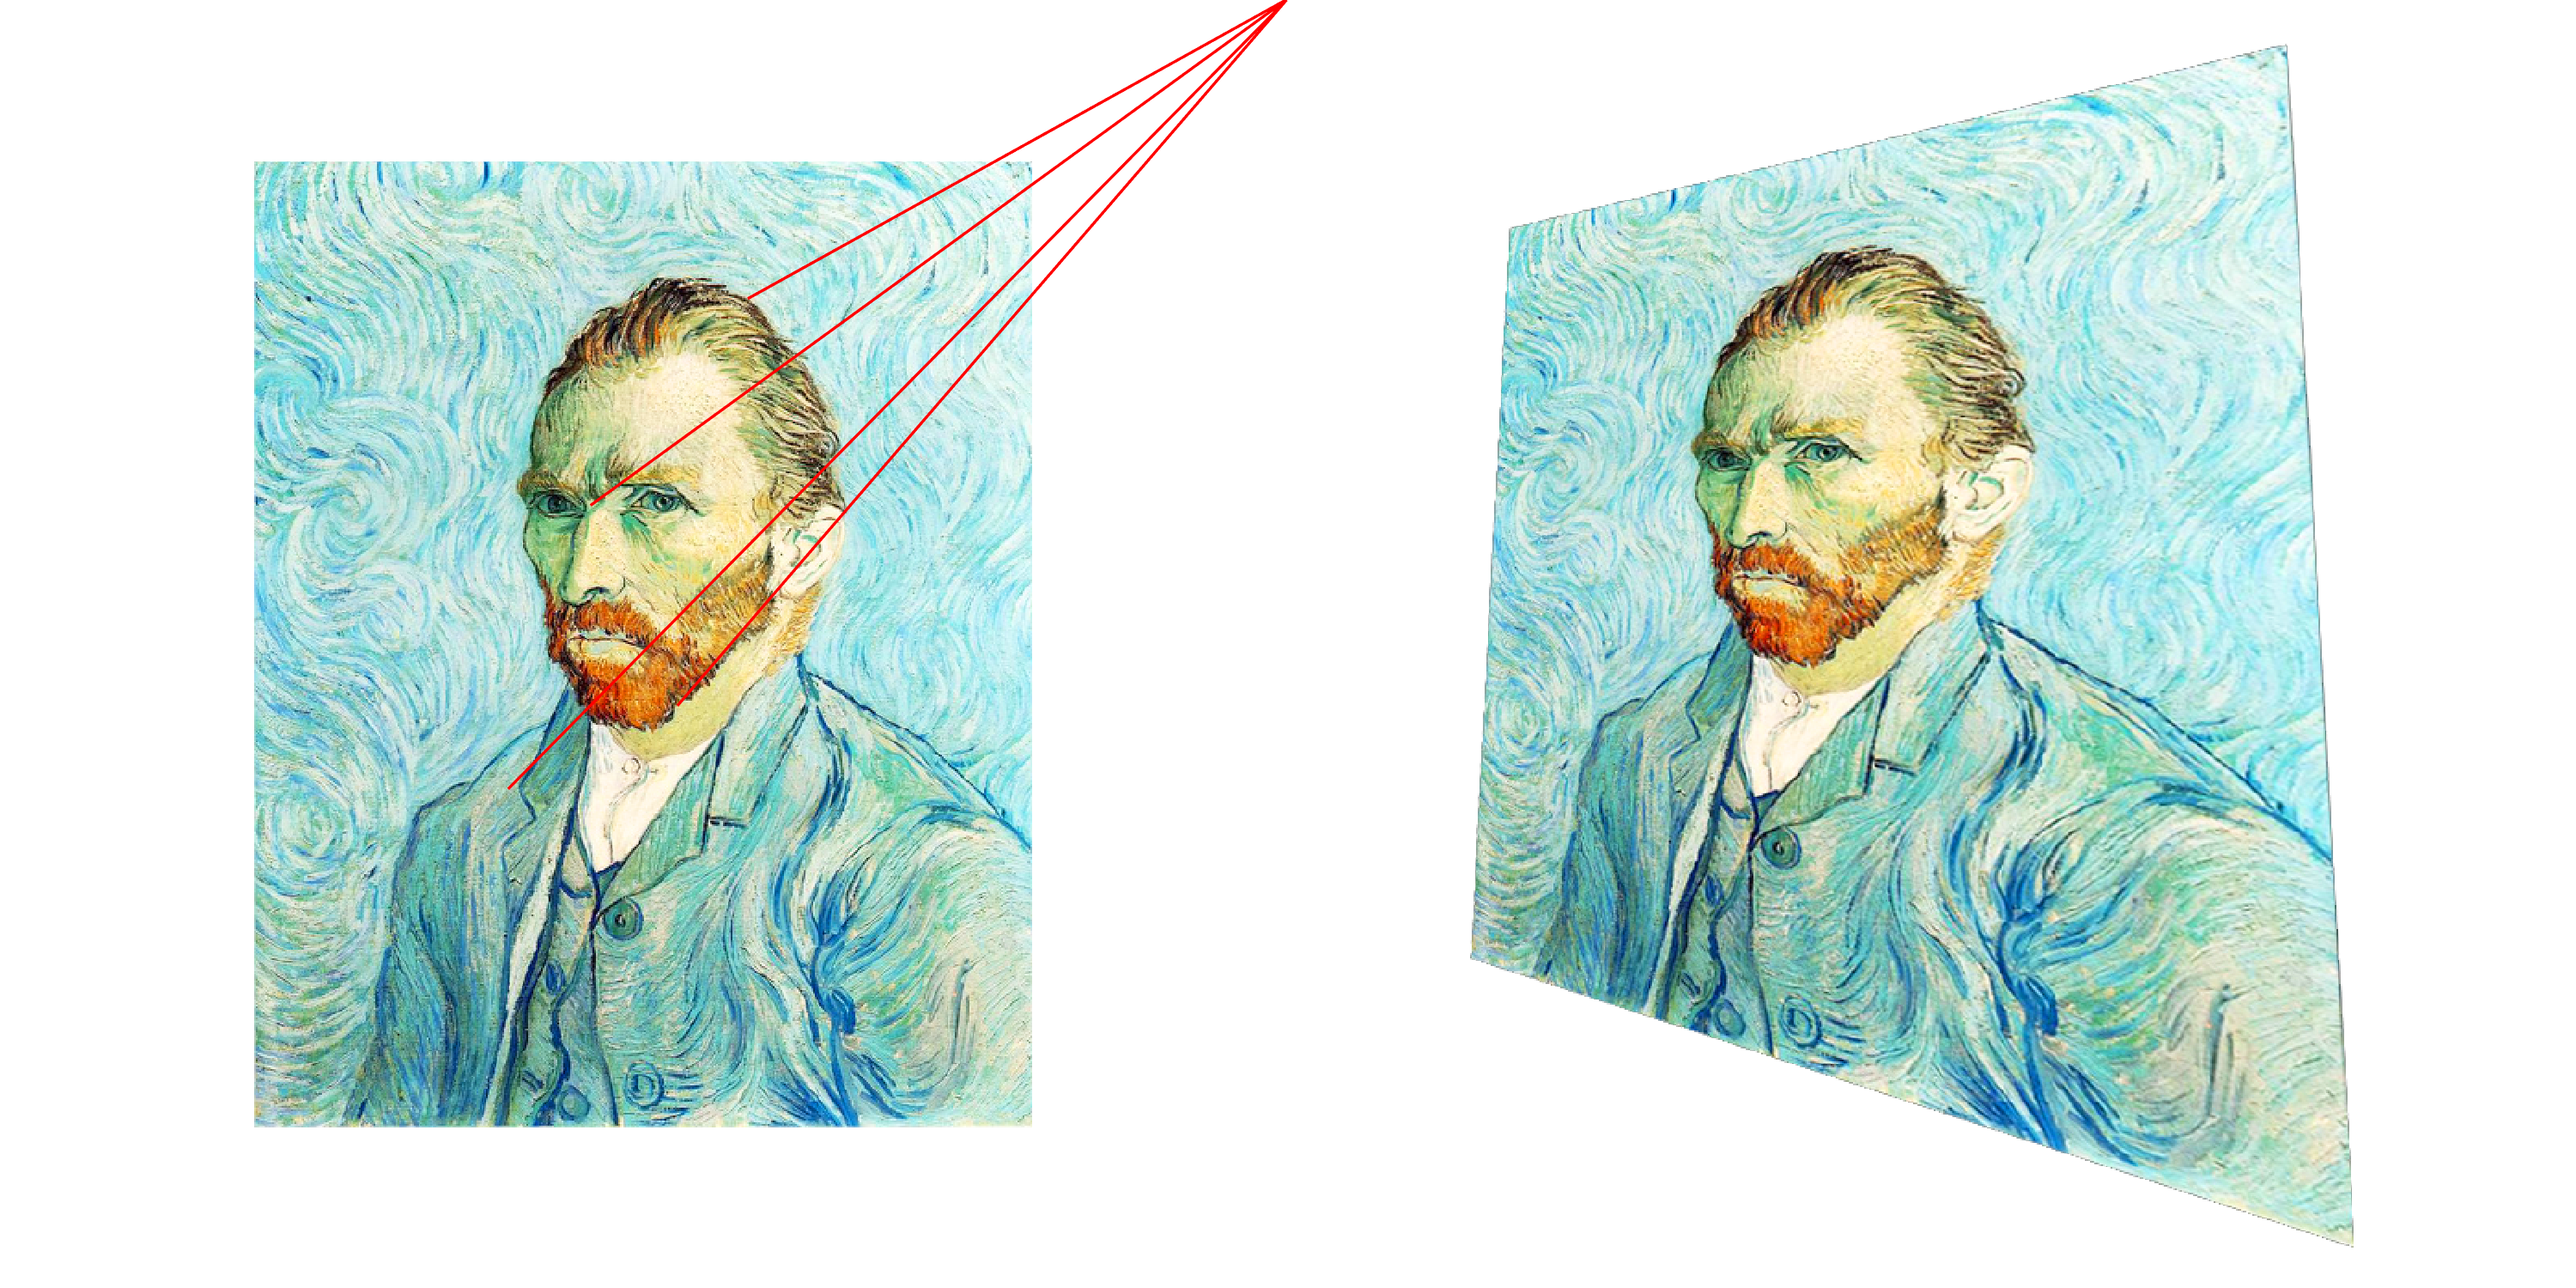
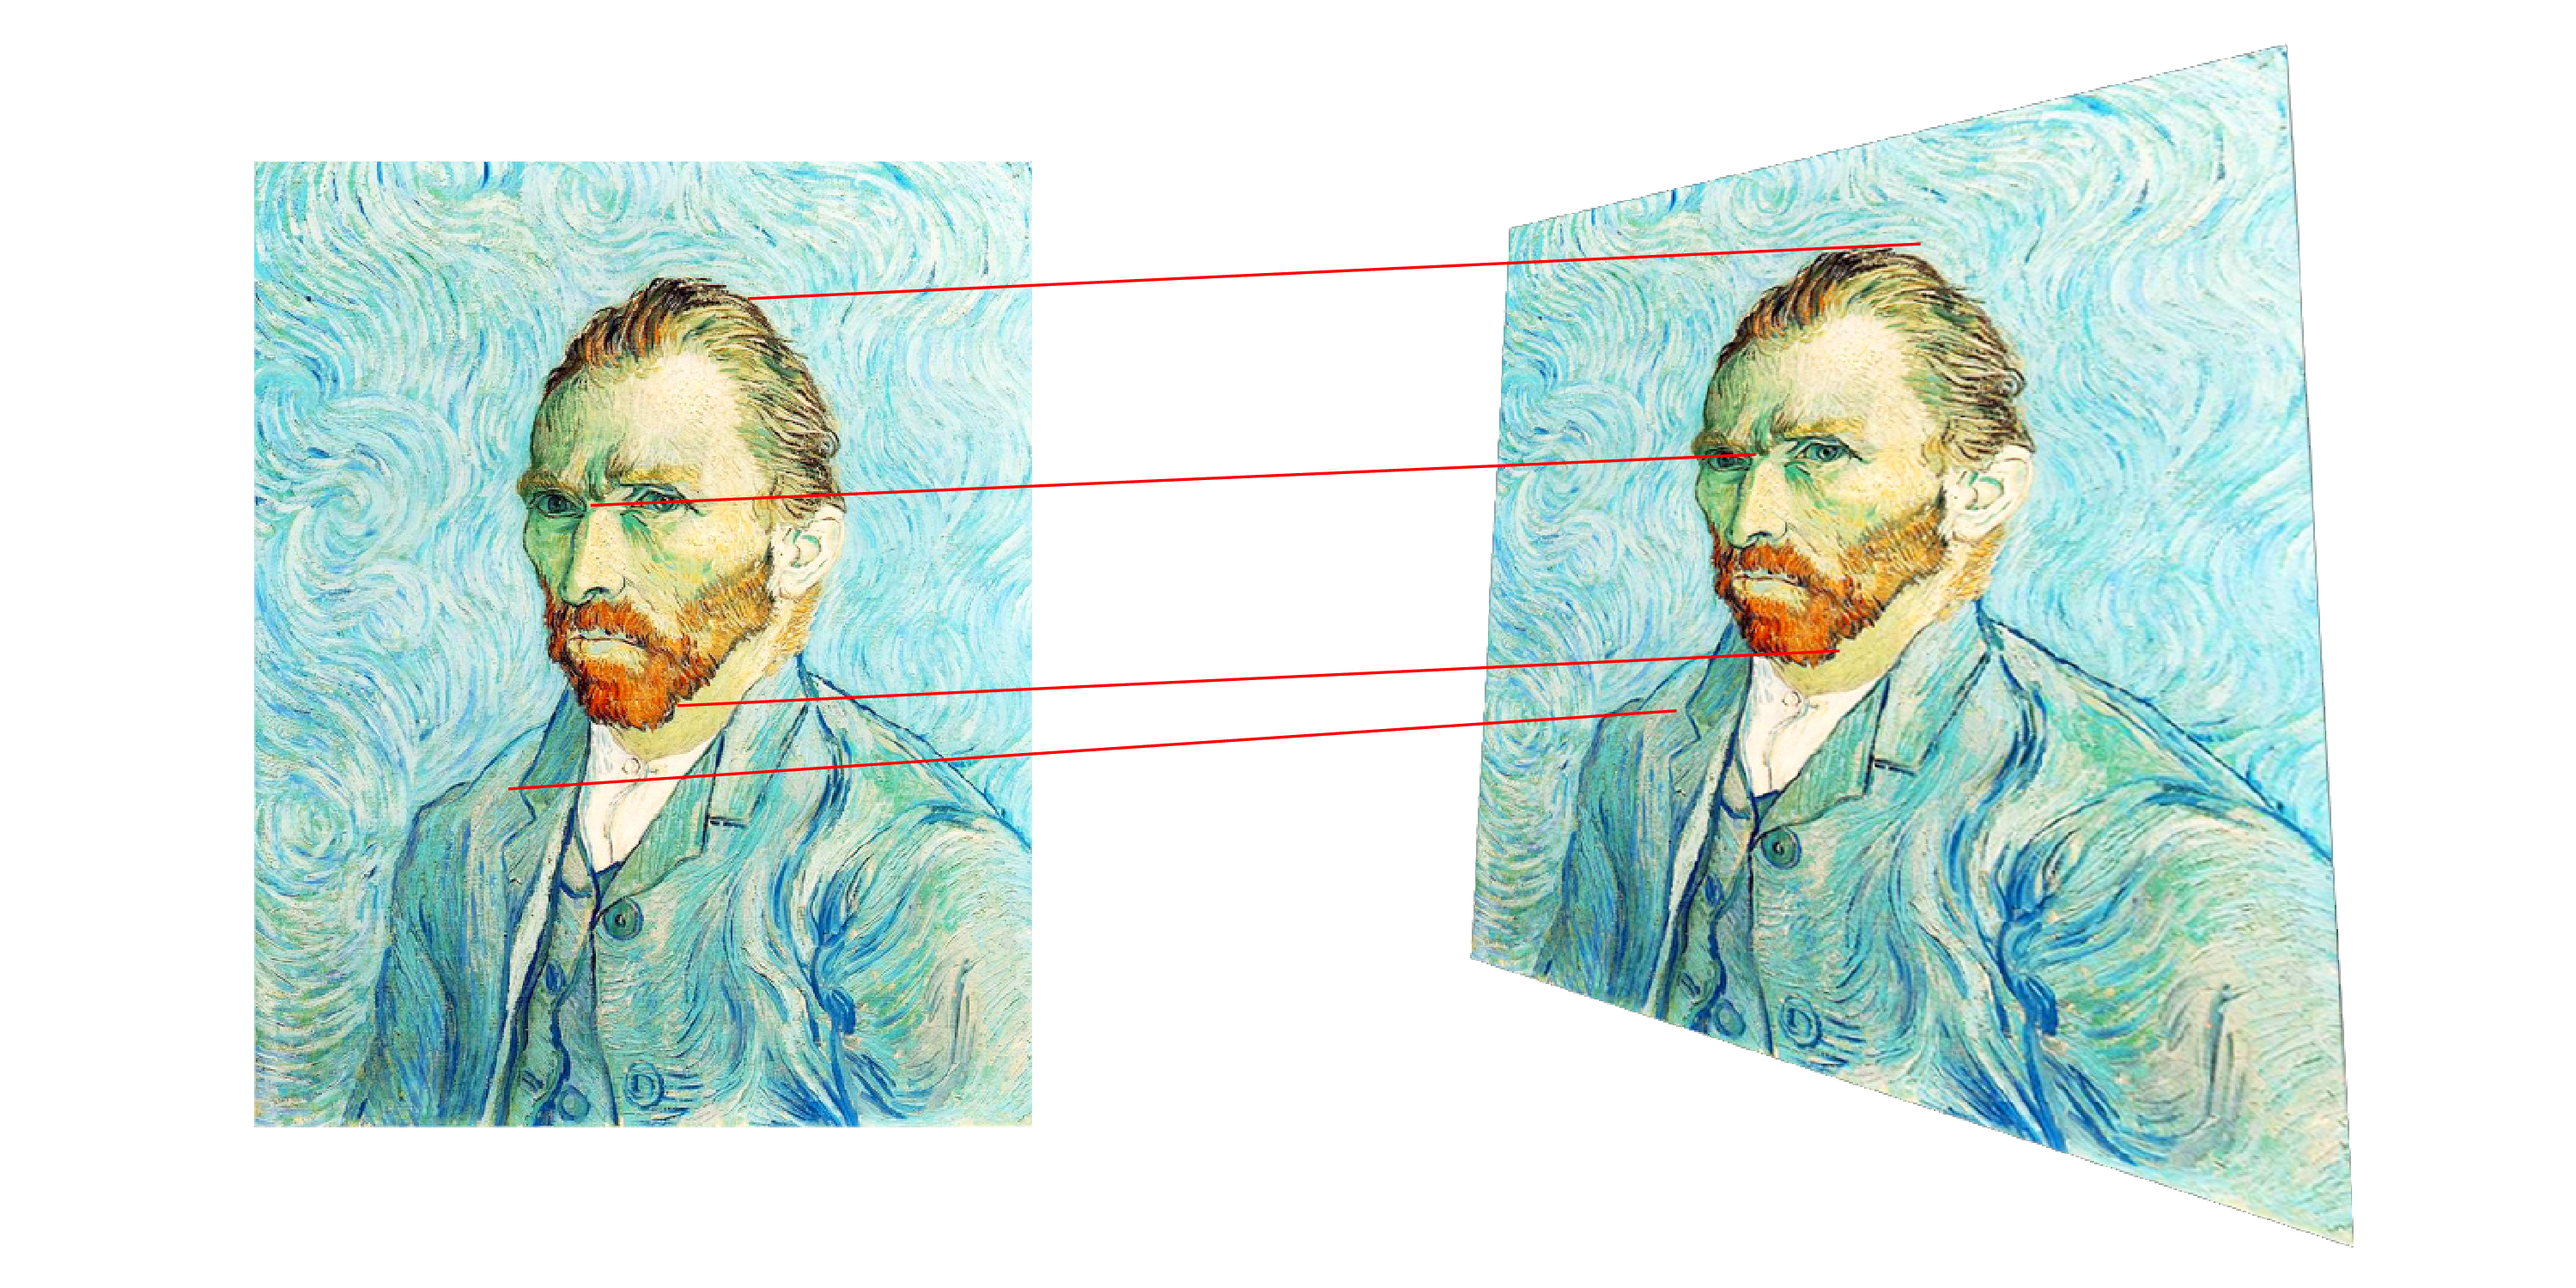
1a. Computing and applying Homography done

diff --git a/Assignments/HW4/src/computeHomography.m b/Assignments/HW4/src/computeHomography.m
@@ -27,5 +27,8 @@ function H_3x3 = computeHomography(src_pts_nx2, dest_pts_nx2)
     A = horzcat(col_1to3, col_4to6, -1 .* col_7, -1 .* col_8, -1 .* col_9);
     
     [V, ~] = eig(A' * A);
-    H_3x3 = reshape(V(:, 1), 3, 3);
+    % fprintf("L2 norm of first eig vec: %f\n", norm(V(:, 1)));
+    % Each consecutive 3 values correspond to a row. Reshape and transpose
+    % to obtain the same
+    H_3x3 = reshape(V(:, 1), 3, 3)';
 end

diff --git a/Assignments/HW4/src/showCorrespondence.m b/Assignments/HW4/src/showCorrespondence.m
@@ -1,7 +1,6 @@
 function result_img = ...
     showCorrespondence(orig_img, warped_img, src_pts_nx2, dest_pts_nx2)
     
-    % TODO: Check if we can use horzcat
     single_img = horzcat(orig_img, warped_img);
     fh = figure();
     imshow(single_img); hold on;
@@ -15,5 +14,5 @@ function result_img = ...
     end
      
     result_img = saveAnnotatedImg(fh);
-    delete(fh);
+    % delete(fh);
 end

diff --git a/Assignments/HW4/src/runHw4.m b/Assignments/HW4/src/runHw4.m
@@ -69,6 +69,7 @@ H_3x3 = computeHomography(src_pts_nx2, dest_pts_nx2);
 test_pts_nx2 = [367.2614 314.4205; 316.1250 490.5568; 421.2386 438.8523; 464.9886 186.0114];
 
 % Apply homography
+% test_pts_nx2 = src_pts_nx2;
 dest_pts_nx2 = applyHomography(H_3x3, test_pts_nx2);
 % test_pts_nx2 and dest_pts_nx2 are the coordinates of corresponding points 
 % of the two images, and H is the homography.
